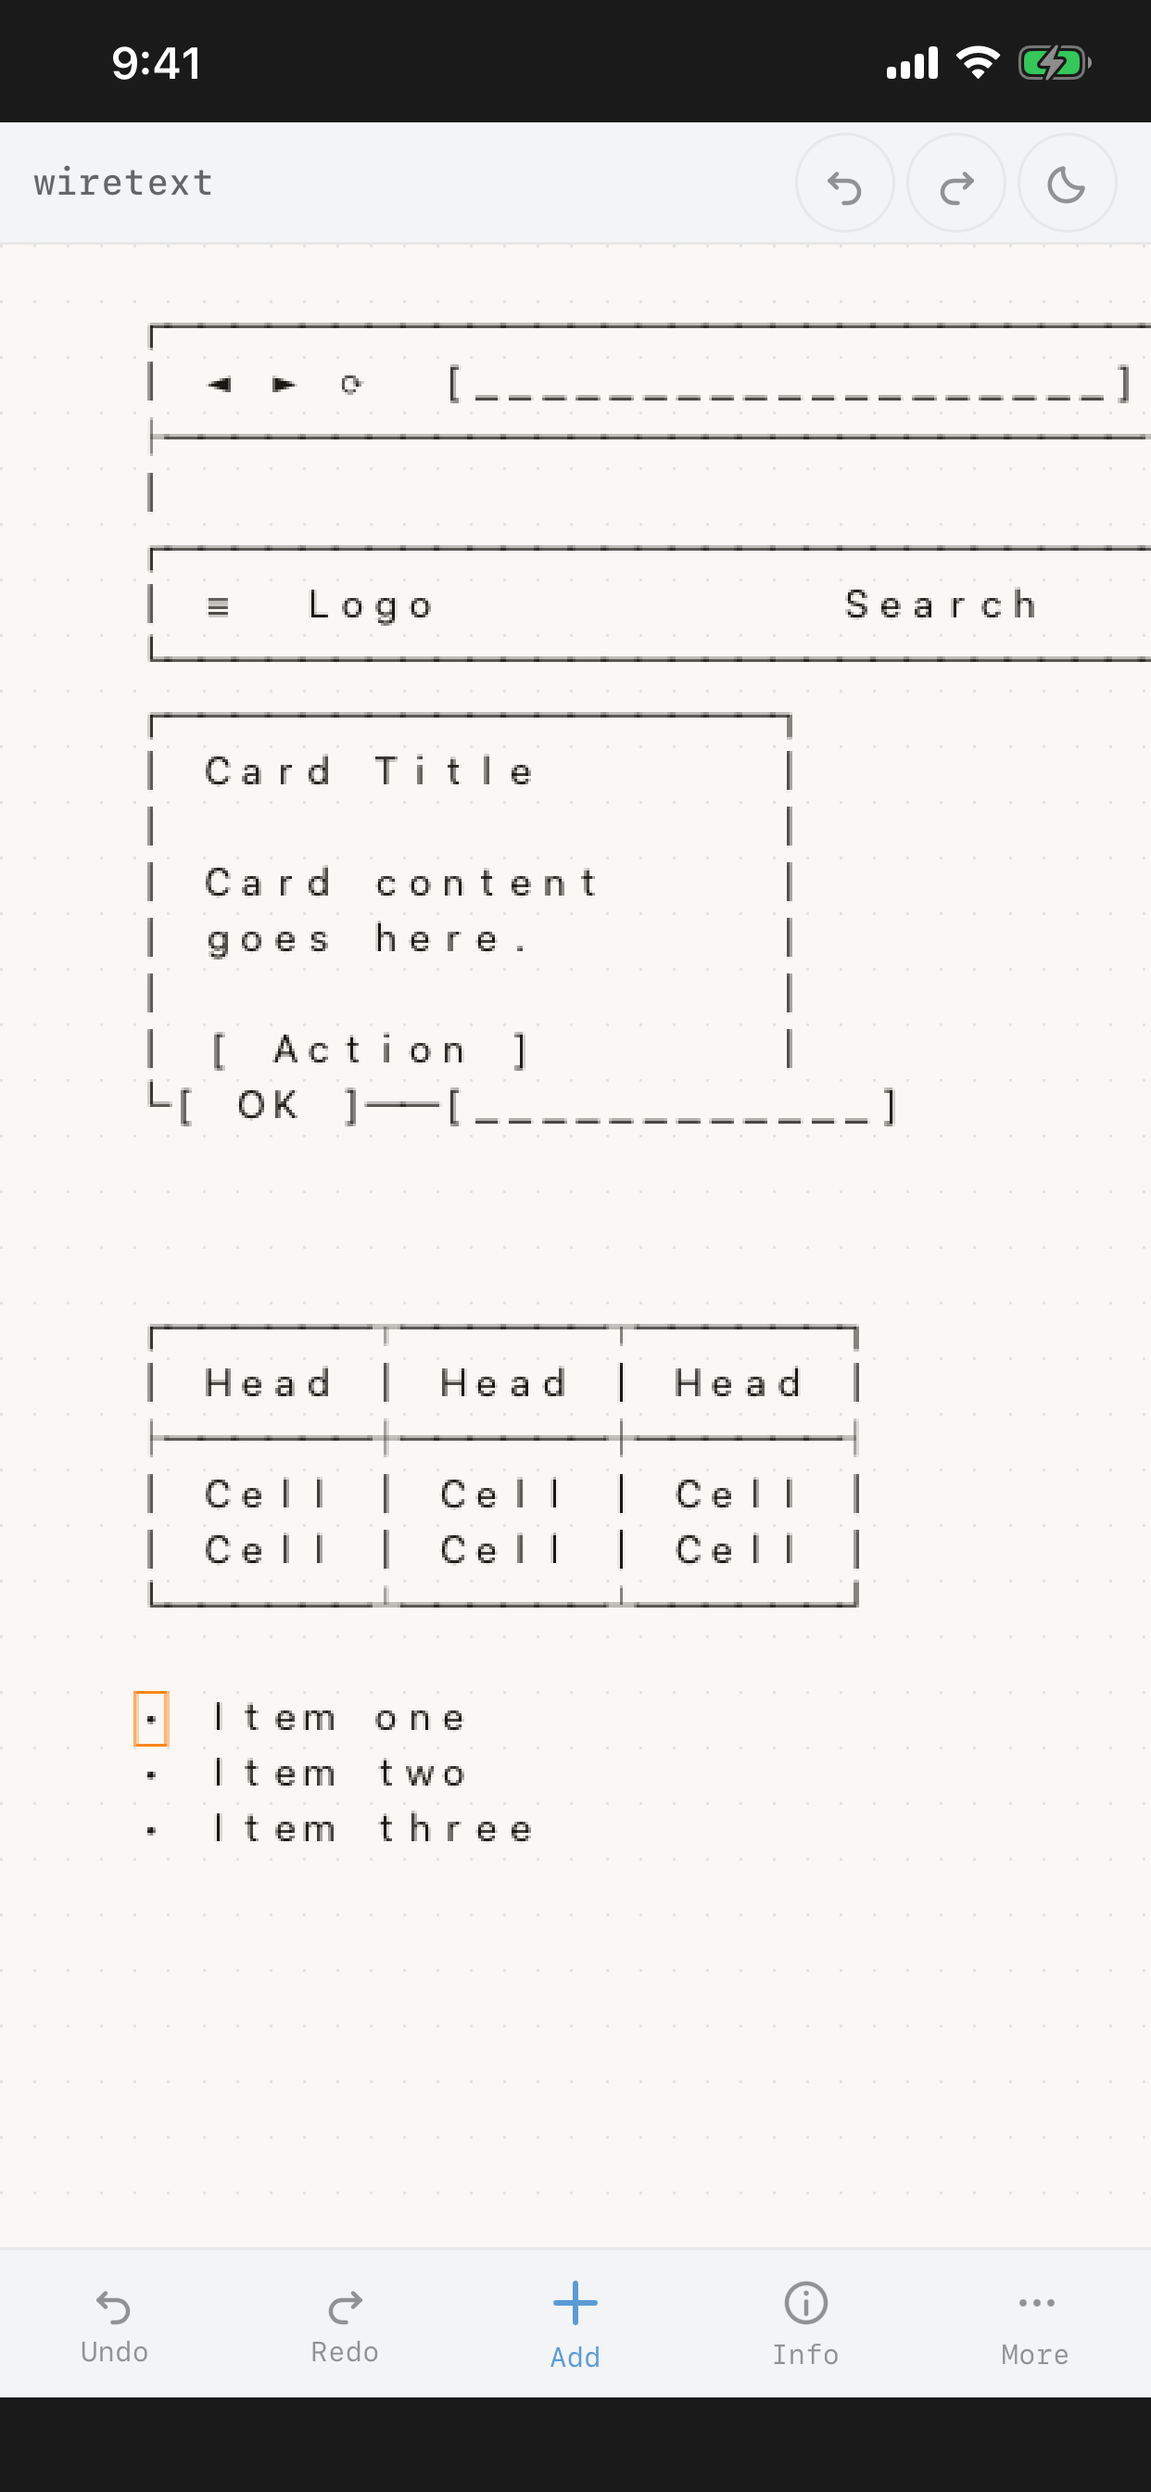
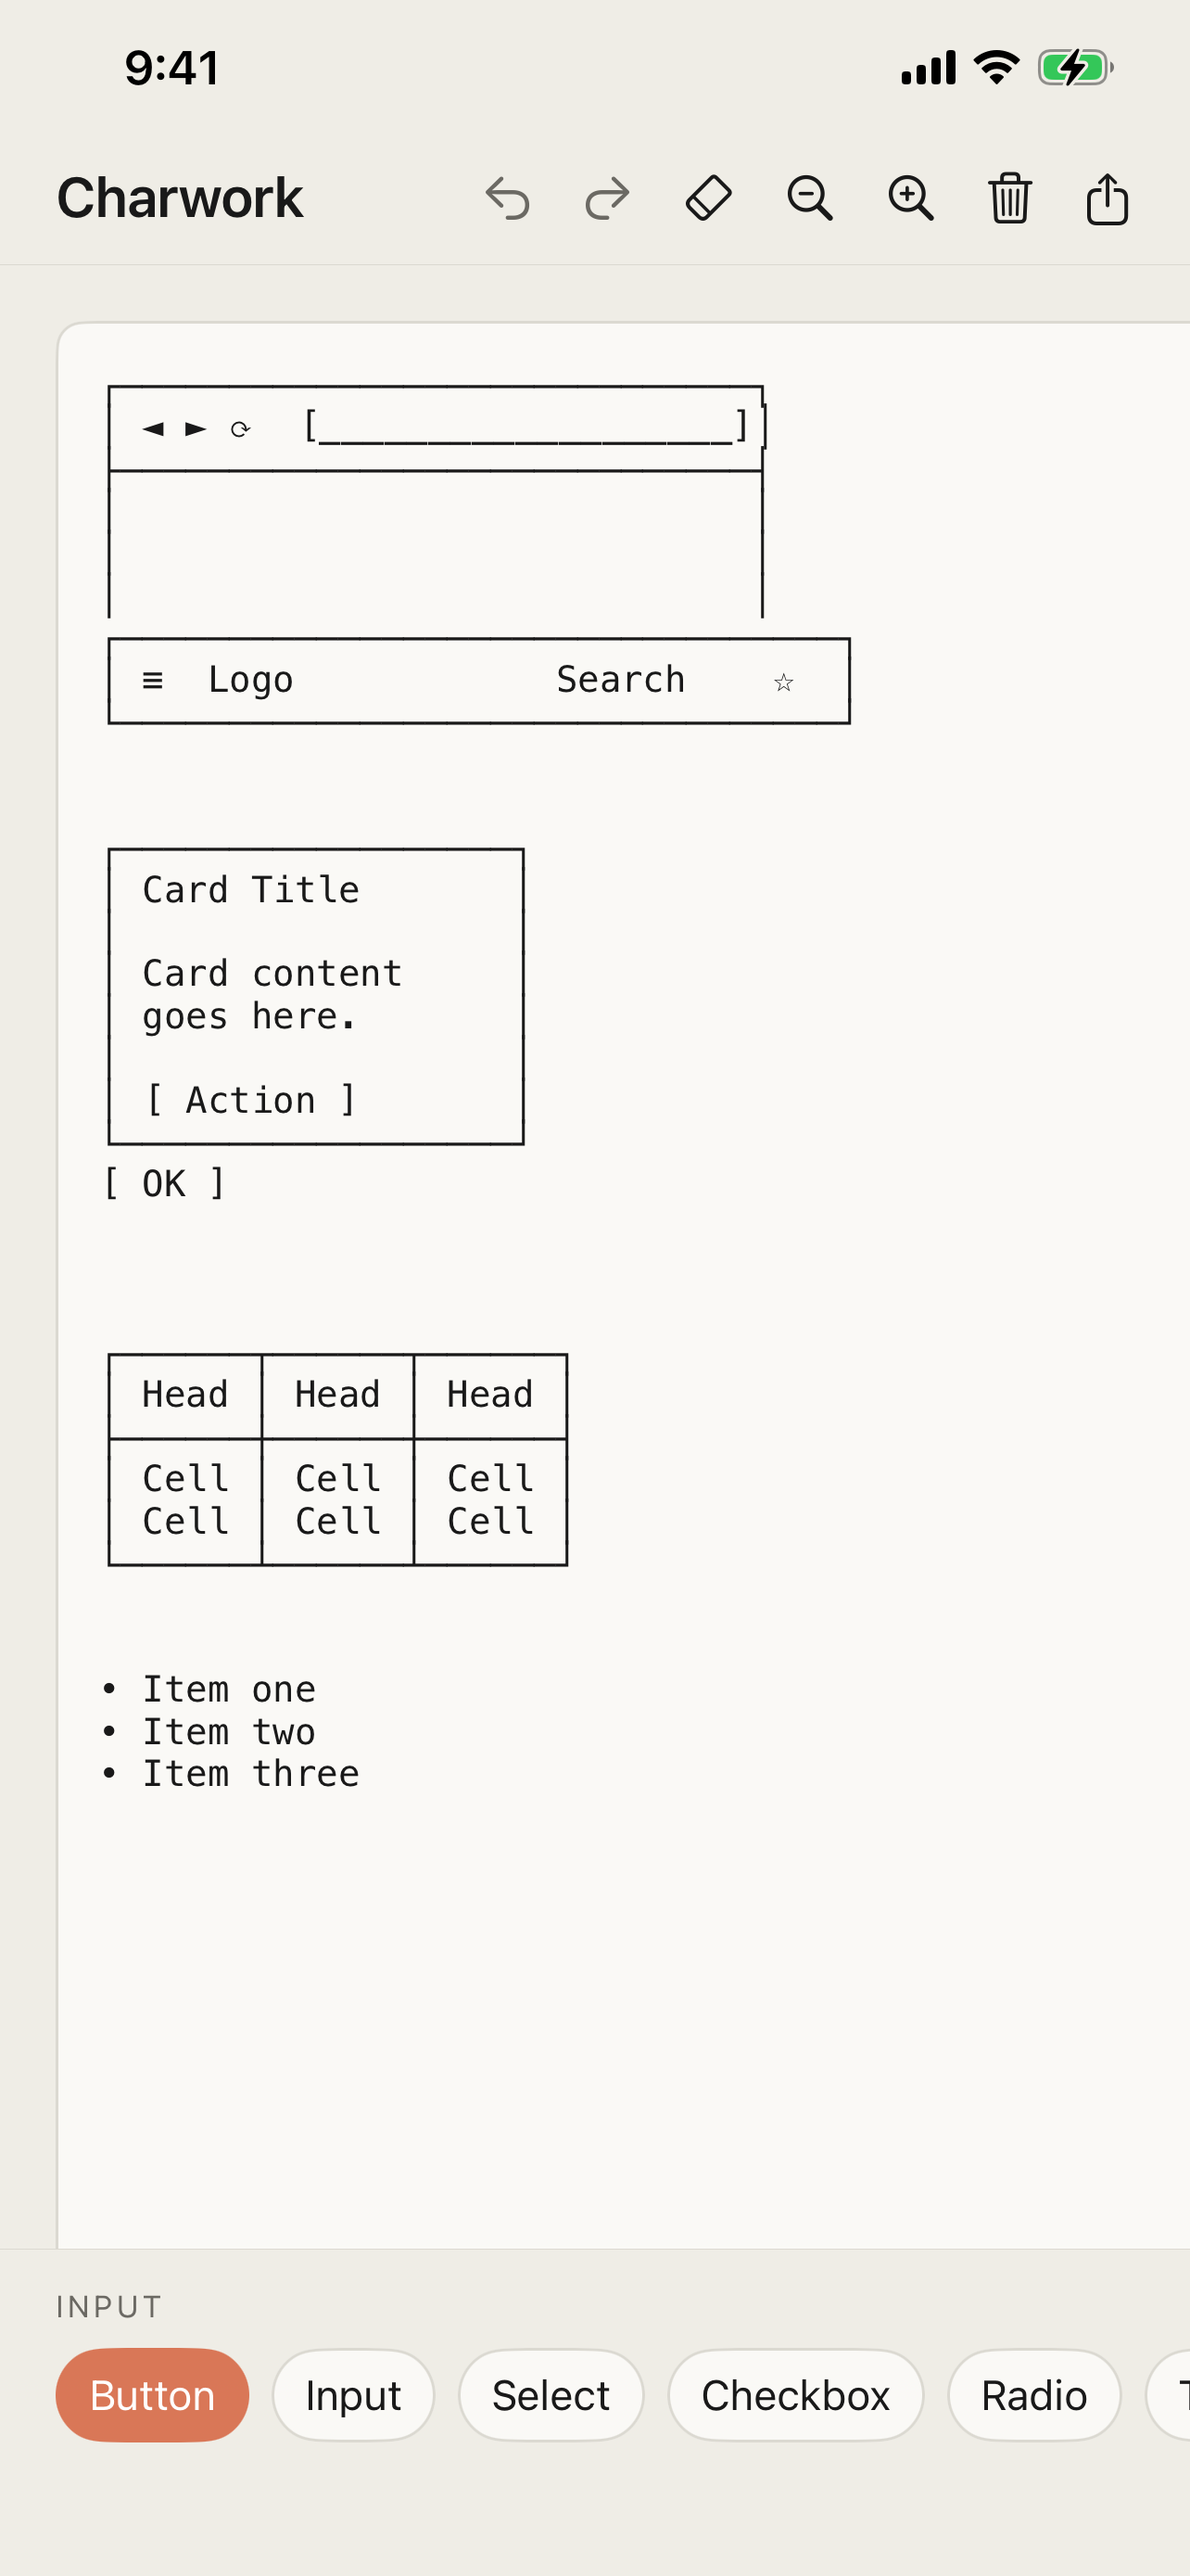
Charwork: fresh App Store screenshots, drop floating share overlay
The store shots still showed the pre-rename 'wiretext' header. Recaptured on
iPhone 6.5" and iPad 13" from the current build. Removed the app-link share
bubble that sat on top of the component palette.

Claude-Session: https://claude.ai/code/session_013Mat5CDShK3bvWQz96zaCt

diff --git a/ios/App/CharworkApp.swift b/ios/App/CharworkApp.swift
@@ -5,38 +5,9 @@ struct CharworkApp: App {
     var body: some Scene {
         WindowGroup {
             ContentView()
-            .shareApp("https://charwork.heyitsmejosh.com")
         }
         // ponytail: sized for the default 100x50 grid at the default font size. On iOS
         // it is a no-op, so no #if is needed.
         .defaultSize(width: 1000, height: 760)
     }
-}
-
-// MARK: - Share
-
-// ponytail: one overlay rather than a per-screen toolbar button — these root views share no
-// navigation container to hang a .toolbar on. Move it into a toolbar per screen if this ever
-// covers something that matters.
-private struct AppShareOverlay: ViewModifier {
-    let link: String
-
-    func body(content: Content) -> some View {
-        content.overlay(alignment: .bottomTrailing) {
-            if let url = URL(string: link) {
-                ShareLink(item: url) {
-                    Image(systemName: "square.and.arrow.up")
-                        .font(.system(size: 15, weight: .medium))
-                        .padding(10)
-                        .background(.regularMaterial, in: Circle())
-                }
-                .buttonStyle(.plain)
-                .padding(16)
-            }
-        }
-    }
-}
-
-private extension View {
-    func shareApp(_ link: String) -> some View { modifier(AppShareOverlay(link: link)) }
 }
